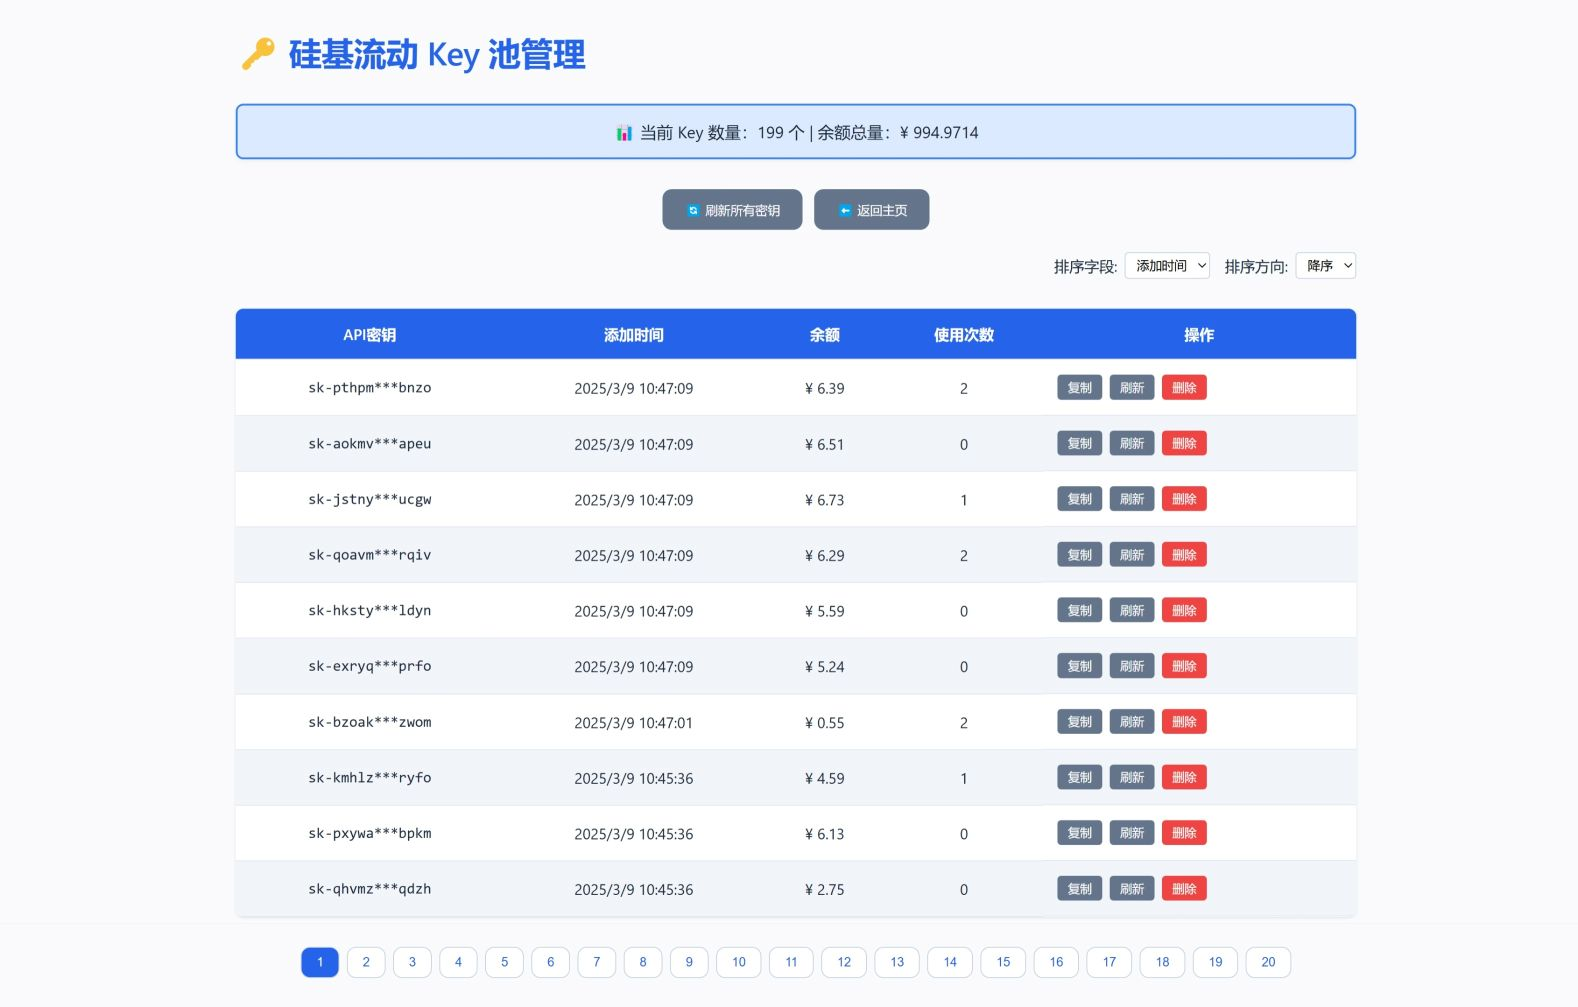
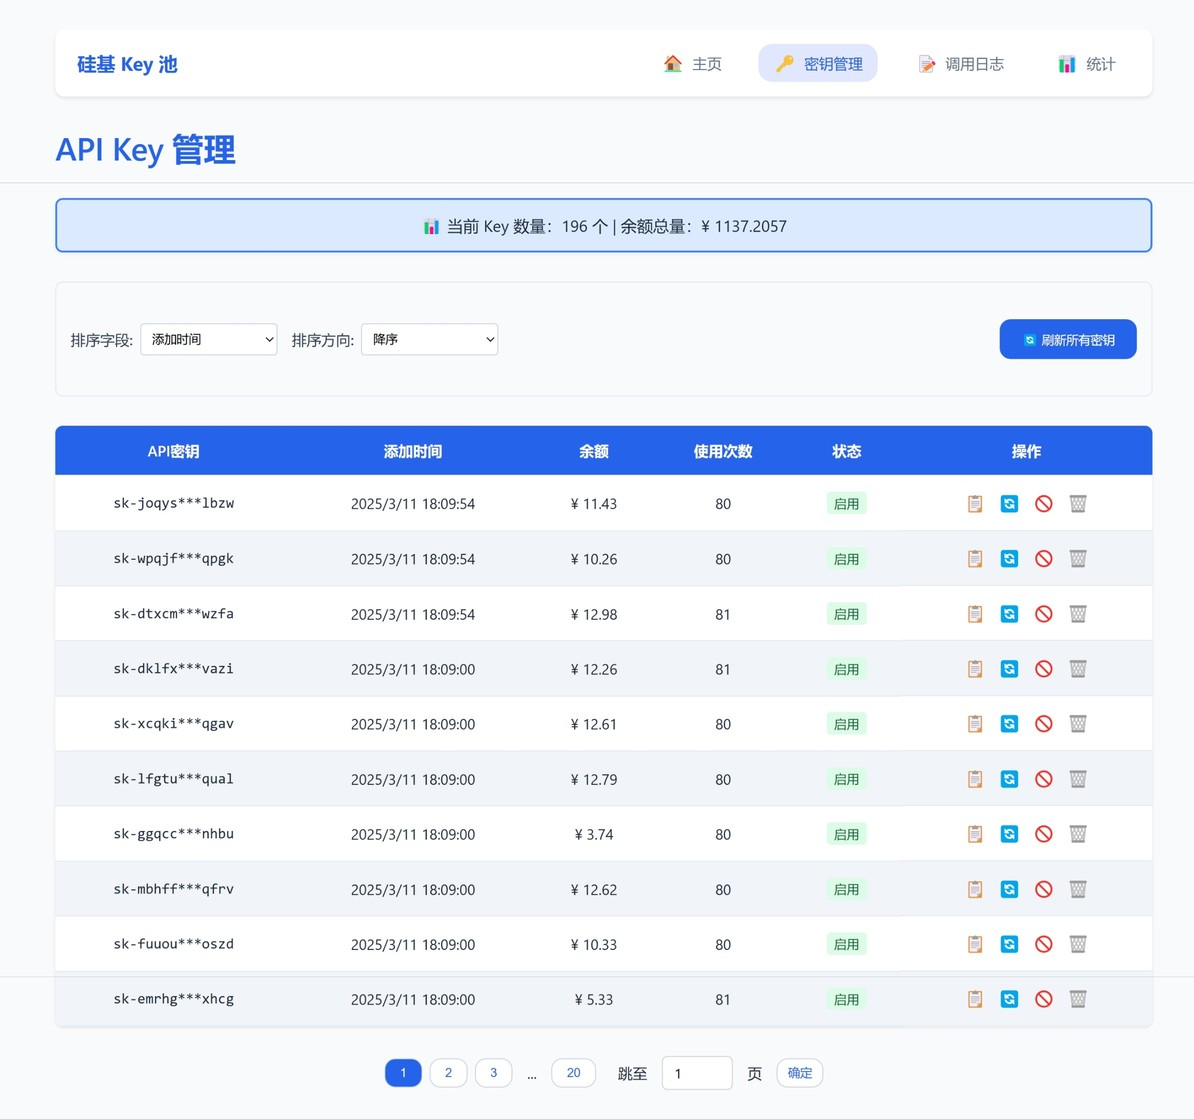
update screenshots

diff --git a/README.md b/README.md
@@ -1,15 +1,22 @@
 # 简介
 
-| ![Home Page](./images/home.jpg) | ![Keys Management](./images/keys.jpg) |
-| :---: | :---: |
-| 主页 | Key 管理页 |
+<details>
+<summary>展开查看截图</summary>
+
+<img src="./images/home.jpg" alt="主页" width="50%" />
+<img src="./images/keys.jpg" alt="Key 管理页" width="50%" />
+<img src="./images/logs.jpg" alt="日志页" width="50%" />
+<img src="./images/stats.jpg" alt="统计页" width="50%" />
+</details>
+
+***
 
 一个用于管理硅基流动 API Key 的本地工具。支持以下功能：
 - API Key 的批量导入，自动过滤无效的 Key
 - API Key 的批量导出（导出为 txt）
 - 对 `/chat/completions`、`/embeddings`、`/completions`（通常用于 FIM 任务，如代码自动补全） 和 `/models` 接口的转发。其中 `/chat/completions` 和 `/completions` 支持流式响应和非流式响应
 - 转发时有多个 Key 选择策略：随机、余额最多优先、余额最少优先、添加时间最旧优先、添加时间最新优先、使用次数最少优先、使用次数最多优先。
-- 一个简单的 Web UI 用于集中管理 Key
+- 一个简单的 Web UI 用于集中管理 Key（见上方图）
 - Key 的批量余额刷新，自动删除用尽的 Key
 - 模型调用日志记录
 - 自定义 API token 检查，仅当调用接口的客户端提供指定的 token 时才转发。
@@ -24,7 +31,7 @@
 
 1. 安装 `uv`: https://docs.astral.sh/uv/getting-started/installation
 2. 在项目根目录执行 `uv run main.py`
-    > 我也写了一份 `requirements.txt`，因此也可以使用 `pip` 来安装依赖。
+    > 我也写了一份 `requirements.txt`，因此也可以使用 `pip` 来安装依赖：`pip install -r requirements.txt`
 3. 访问 http://127.0.0.1:7898 来查看 Web UI 并导入你的 Key。
 4. 在你的应用程序中设置 OpenAI `BASE_URL` 为 `http://127.0.0.1:7898`，并设置 `API_KEY`：
     - 如果没有启用 API token 校验功能，则 `API_KEY` 可以是任何值，留空也可以。此程序会直接转发请求，不会检查 `API_KEY`。
